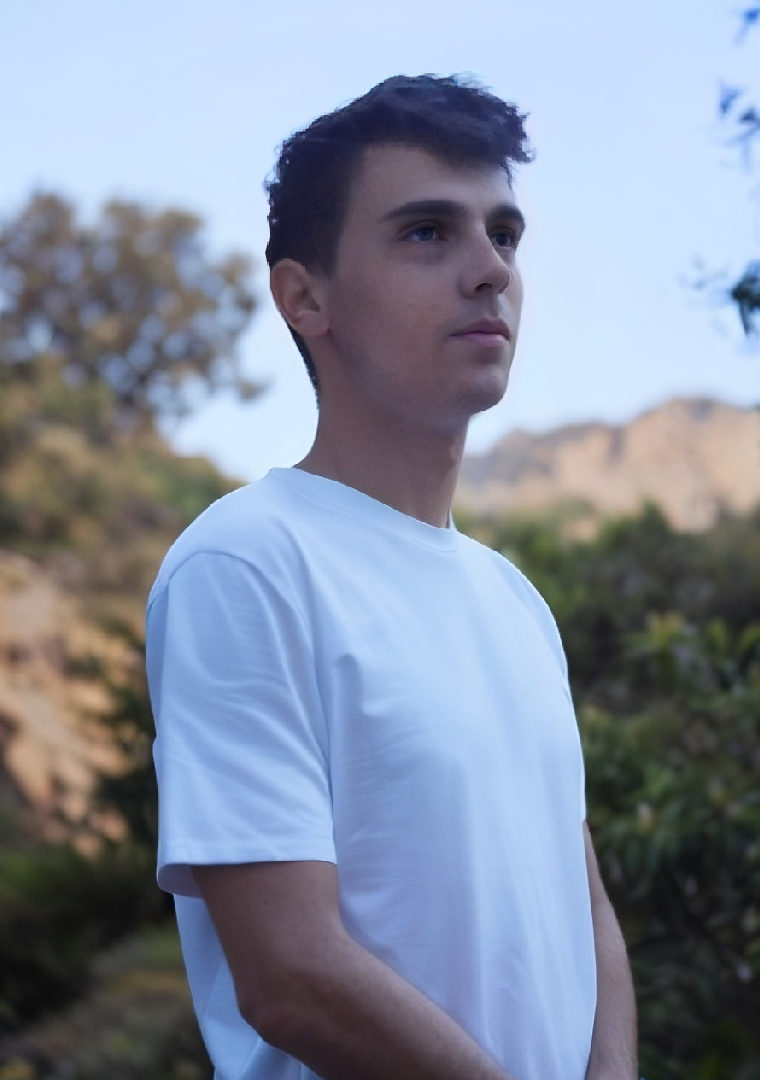
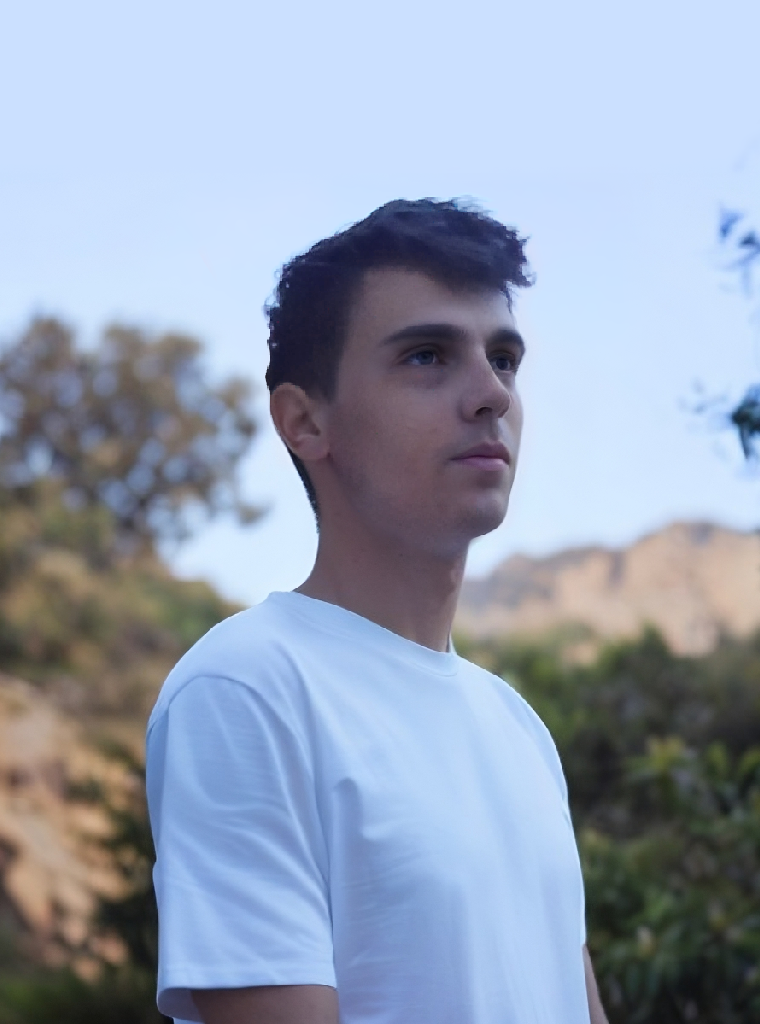
about section complete

diff --git a/index.html b/index.html
@@ -28,36 +28,36 @@
 	<!-- HEADER -->
 	<header class="header">
 		<div class="header__top">
-			<a href="#hero-section" class="header__top-element"><div class="header__logo">EVAN<br>VADA</div></a>
+			<a href="#hero" class="header__top-element"><div class="header__logo">EVAN<br>VADA</div></a>
 			<div class="header__top-element header__burger"><div class="burger icon"></div></div>
 			<nav class="header__desktop-nav">
-				<a href="#portfolio-section" class="header__top-element"><span>PORTFOLIO</span></a>
-				<a href="#about-section" class="header__top-element"><span>À_PROPOS</span></a>
-				<a href="#contact-section" class="header__top-element"><span>CONTACT</span></a>
+				<a href="#portfolio" class="header__top-element"><span>PORTFOLIO</span></a>
+				<a href="#about" class="header__top-element"><span>À_PROPOS</span></a>
+				<a href="#contact" class="header__top-element"><span>CONTACT</span></a>
 			</nav>
 		</div>
 		<div class="header__side">
 			<nav class="header__mobile-nav">
-				<a href="#portfolio-section" class="header__side-element"><div class="house icon"></div><span>> PORTFOLIO</span><span>></span></a>
-				<a href="#about-section" class="header__side-element"><div class="magnify icon"></div><span>> À_PROPOS</span><span>></span></a>
-				<a href="#contact-section" class="header__side-element"><div class="mail icon"></div><span>> CONTACT</span><span>></span></a>
+				<a href="#portfolio" class="header__side-element"><div class="house icon"></div><span>> PORTFOLIO</span><span>></span></a>
+				<a href="#about" class="header__side-element"><div class="magnify icon"></div><span>> À_PROPOS</span><span>></span></a>
+				<a href="#contact" class="header__side-element"><div class="mail icon"></div><span>> CONTACT</span><span>></span></a>
 			</nav>
 		</div>
 	</header>
 
 	<!-- HERO -->
-	<section class="hero dither-bottom" id="hero-section">
+	<section class="hero dither-bottom" id="hero">
 		<div class="hero__bg"></div>
 		<div class="hero__side">
 			<h1>DÉV FULLSTACK</h1>
 			<h3>Passionné depuis très jeune, j'ai extrêmement hâte de commencer à travailler en équipe dans un apprentissage</h3>
-			<input class="fat-button" type="button" value="> Contacter" onclick="document.getElementById('contact-section').scrollIntoView();">
+			<input class="fat-button" type="button" value="> Contacter" onclick="document.getElementById('contact').scrollIntoView();">
 		</div>
 	</section>
 
 	<!-- PRTFOLIO -->
 	<section class="portfolio">
-		<div class="anchor" id="portfolio-section"></div>
+		<div class="anchor" id="portfolio"></div>
 		<h2 class="before-line after-line">PORTFOLIO</h2>
 		<div class="portfolio__grid">
 			<div class="portfolio__project"></div>
@@ -67,30 +67,34 @@
 
 	<!-- ABOUT -->
 	<section class="about">
-		<h2 class="before-line after-line">À PROPOS</h2>
-		<div class="about__container">
-			<div class="anchor" id="about-section"></div>
-			<div class="about__side">
+		<h2 class="before-line after-line">À&nbsp;PROPOS</h2>
+		<div class="about__grid">
+			<div class="anchor" id="about"></div>
+			
+			<div class="about__myself">
+				<h3>EVAN VADA</h3>
 				<p>• Bonjour, je m'appelle Evan. Je suis passionné d'informatique depuis mes 14 ans, où j'ai commencé par créer des petits jeux avec Python.</p>
 				<p>• On dis de moi que je suis artistique et doué en dessin… J'aime le design mais je suis également attiré par la dimension technique.</p>
 				<p>• C'est pourquoi j'ai décidé d'être développeur full-stack. Dans cette voie, je peux combiner mes compétences artistiques avec mon intérêt pour le code.</p>
-				<p>• L'informatique est pour moi un moyen d'exprimer de la créativité. J'adore prototyper et expérimenter dans mes projets !</p>
+				<p>• L'informatique est pour moi un moyen d'exprimer de la créativité. J'adore prototyper et expérimenter dans mes projets&nbsp;!</p>
 			</div>
-			<div class="about__portrait dither-top dither-bottom"></div>
 			<div class="about__skills">
-				
-				<div class="about__skill-element"><div class="html icon"></div><span>HTML</span></div>
-				<div class="about__skill-element"><div class="css icon"></div><span>CSS</span></div>
-				<div class="about__skill-element"><div class="js icon"></div><span>JS</span></div>
-				<div class="about__skill-element"><div class="python icon"></div><span>Python</span></div>
-				<div class="about__skill-element"><div class="sass icon"></div><span>Sass</span></div>
-				<div class="about__skill-element"><div class="git icon"></div><span>Git</span></div>
-				<div class="about__skill-element"><div class="c icon"></div><span>C</span></div>
-
-				<div class="about__skill-element"><div class="react icon"></div><span>React</span></div>
-				<div class="about__skill-element"><div class="nodejs icon"></div><span>NodeJS</span></div>
-				<div class="about__skill-element"><div class="mongodb icon"></div><span>MongoDB</span></div>
+				<h3>COMPÉTENCES</h3>
+				<div class="about__skills-collection">
+					<div class="about__skill-element"><div class="html icon"></div><span>HTML</span></div>
+					<div class="about__skill-element"><div class="css icon"></div><span>CSS</span></div>
+					<div class="about__skill-element"><div class="js icon"></div><span>JS</span></div>
+					<div class="about__skill-element"><div class="python icon"></div><span>Python</span></div>
+					<div class="about__skill-element"><div class="sass icon"></div><span>Sass</span></div>
+					<div class="about__skill-element"><div class="git icon"></div><span>Git</span></div>
+					<div class="about__skill-element"><div class="c icon"></div><span>C</span></div>
+					<div class="about__skill-element"><div class="react icon"></div><span>React</span></div>
+					<div class="about__skill-element"><div class="nodejs icon"></div><span>NodeJS</span></div>
+					<div class="about__skill-element"><div class="mongodb icon"></div><span>MongoDB</span></div>
+				</div>
 			</div>
+			<div class="about__close">Alors, travaillons ensemble&nbsp;!</div>
+			<div class="about__portrait dither-top dither-bottom"></div>
 		</div>
 	</section>
 
@@ -98,7 +102,7 @@
 	<section class="bottom-hero dither-top">
 		<div class="bottom-hero__bg"></div>
 		<div class="bottom-hero__side">
-			<div class="anchor" id="contact-section"></div>
+			<div class="anchor" id="contact"></div>
 			<h2 class="after-line white">CONTACT</h2>
 			<div class="bottom-hero__container">
 				<form class="bottom-hero__form">

diff --git a/style/layouts/index/about.css b/style/layouts/index/about.css
@@ -13,66 +13,64 @@
 	padding-bottom: 24px;
 }
 
-.about__container {
-	display: flex;
-	justify-content: center;
-	flex-wrap: wrap;
-	gap: 24px 0;
+.about h3 {
+	padding-bottom: 18px;
+}
+
+.about__grid {
+	display: grid;
+	grid-gap: 24px 24px;
+	grid-template-columns: 2fr 1fr;
+	grid-template-rows: auto auto 1fr;
 }
 
 .about__portrait {
-	height: 600px;
-	max-width: 500px;
-	flex: 1 1 0;
+	grid-area: 1 / 2 / 4 / 3;
 
 	position: relative;
 	background-image: url("../../../media/portrait.png");
 	background-size: cover;
 	background-position: center;
-}
 
-.about__side {
 	height: 600px;
-	flex: 1 1 0;
-
-	display: flex;
-	justify-content: flex-start;
-	flex-direction: column;
 }
 
-.about__side > p {
+.about__myself {
+	grid-area: 1 / 1 / 2 / 2;
+}
+
+.about__myself p {
+	padding-left: 32px;
+	padding-right: 10%;
 	padding-bottom: 6px;
 }
 
-@media (max-width: 640px) {
-	.about__container {
-		flex-direction: column;
-		gap: 24px;
-	}
+.about__skills {
+	grid-area: 2 / 1 / 3 / 1;
+}
 
-	.about__side {
-		width: 100%;
-		height: unset;
-		flex: none;
-	}
-
-	.about__portrait {
-		width: 100%;
-		max-width: none;
-		height: unset;
-		aspect-ratio: 1 / 1;
-		flex: none;
-	}
+.about__close {
+	grid-area: 3 / 1 / 4 / 2;
 }
 
 
 
 
-.about__skills {
+
+
+
+
+
+
+
+
+
+.about__skills-collection {
 	width: 100%;
 	display: flex;
 	flex-wrap: wrap;
 	gap: 12px 24px;
+	padding-left: 32px;
 }
 
 .about__skill-element {
@@ -80,17 +78,103 @@
 	align-items: center;
 	flex-direction: column;
 	text-decoration-line: none;
-	width: fit-content;
+	/* width: fit-content; */
+	width: 40px;
 }
 
 .about__skill-element span {
 	font-size: 0.75rem;
 }
 
-
 .about__skill-element .icon {
 	margin-bottom: 6px;
 }
+
+
+
+
+
+
+
+
+
+@media (max-width: 1280px) {
+	
+	.about__grid {
+		grid-template-columns: 1.5fr 1fr;
+	}
+
+	.about__portrait {
+		grid-area: 1 / 2 / 2 / 3;
+		height: 500px;
+	}
+
+	.about__skills {
+		grid-area: 2 / 1 / 3 / 3;
+	}
+
+	.about__close {
+		grid-area: 3 / 1 / 4 / 3;
+	}
+}
+
+@media (max-width: 960px) {
+	.about__grid {
+		grid-template-columns: 1fr 1fr;
+	}
+
+	.about__myself p {
+		padding-left: 16px;
+		padding-right: 0;
+	}
+
+	.about__skills-collection {
+		padding-left: 16px;
+	}
+
+	.about__myself {
+		grid-area: 1 / 1 / 2 / 3;
+	}
+
+	.about__portrait {
+		grid-area: 2 / 2 / 4 / 3;
+		height: 400px;
+	}
+
+	.about__skills {
+		grid-area: 2 / 1 / 3 / 2;
+	}
+
+	.about__close {
+		grid-area: 3 / 1 / 4 / 2;
+	}
+}
+
+@media (max-width: 640px) {
+	.about__grid {
+		grid-template-columns: 1fr;
+	}
+
+	.about__myself {
+		grid-area: 1 / 1 / 2 / 2;
+	}
+
+	.about__portrait {
+		grid-area: 3 / 1 / 4 / 2;
+		height: 540px;
+	}
+
+	.about__skills {
+		grid-area: 2 / 1 / 3 / 2;
+	}
+
+	.about__close {
+		grid-area: 4 / 1 / 5 / 2;
+	}
+}
+
+
+
 
 
 

diff --git a/style/layouts/index/portfolio.css b/style/layouts/index/portfolio.css
@@ -41,8 +41,8 @@
 
 
 @media (max-width: 1280px) {
-    .portfolio__grid {
-        grid-template-columns: 1fr;
+	.portfolio__grid {
+		grid-template-columns: 1fr;
 	}
 }
 
